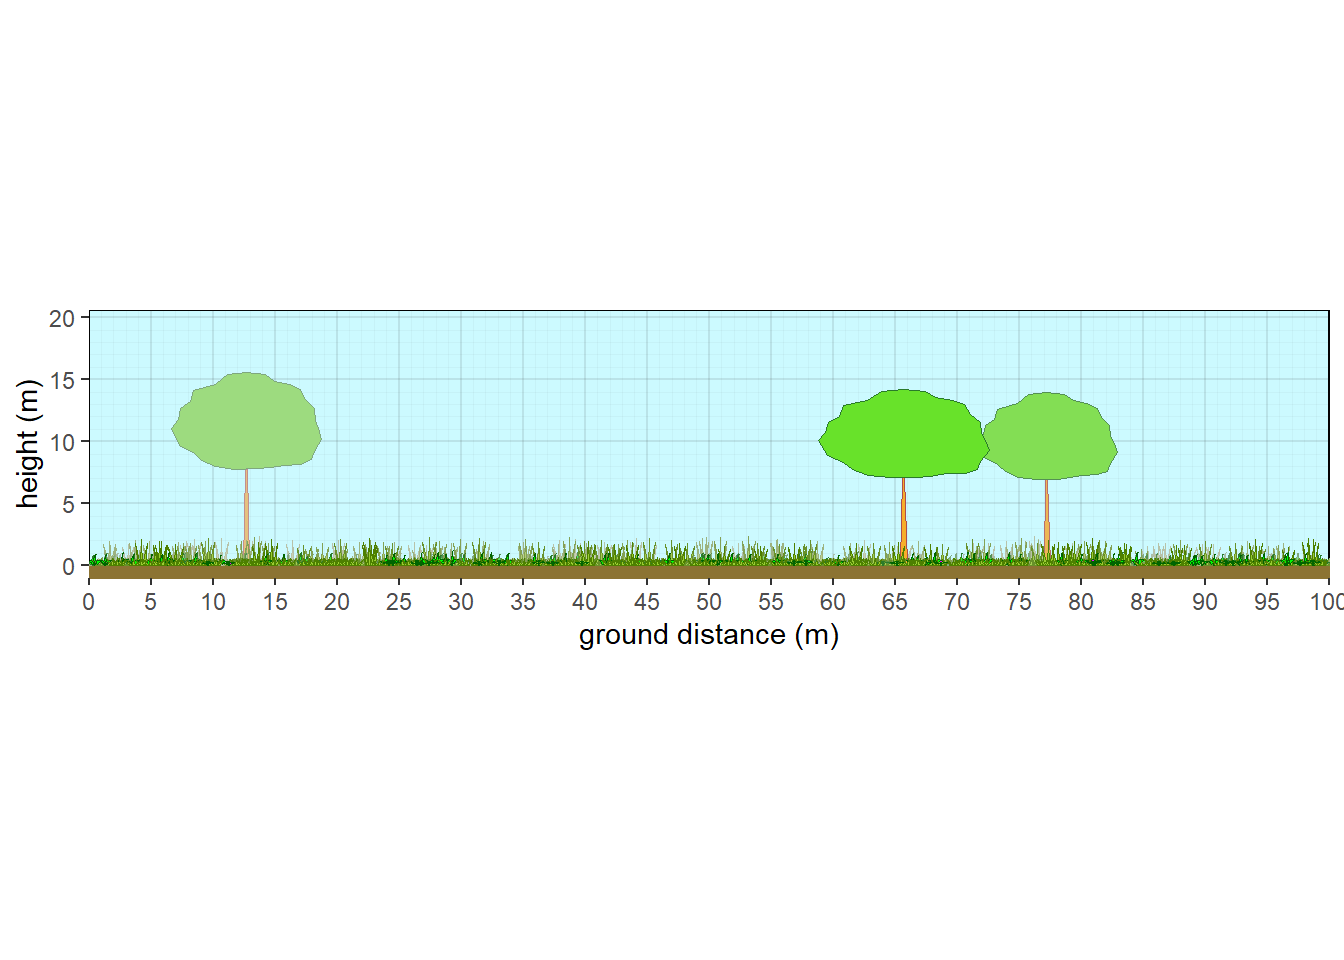
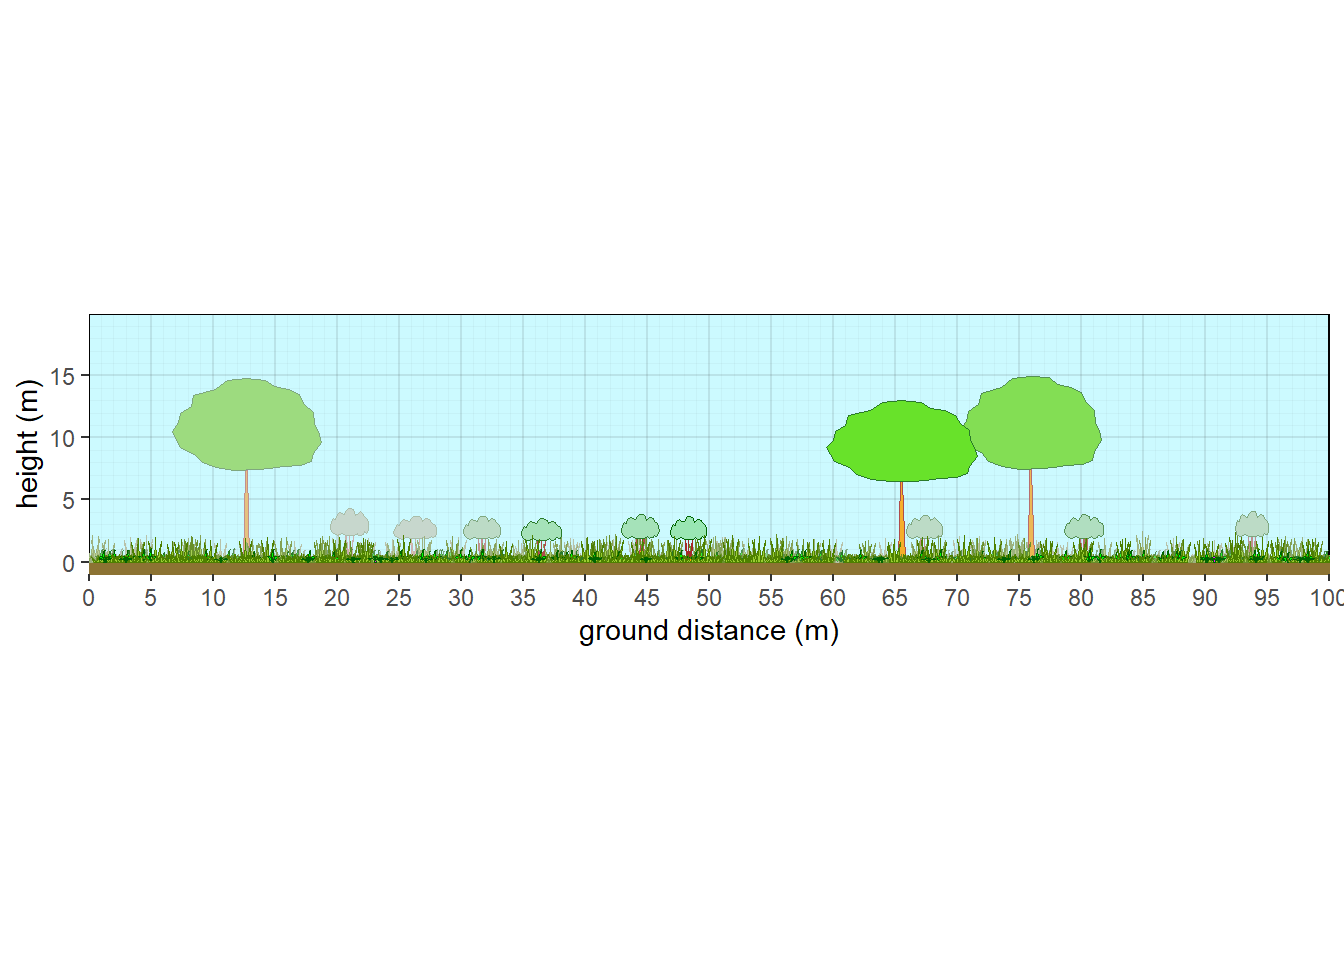
Added another option for habit overide.

diff --git a/docs/vegetation-plant-profile-diagrams.html b/docs/vegetation-plant-profile-diagrams.html
@@ -334,20 +334,23 @@ Figure 7.5: Structure of a Washington conifer forest.
 </div>
 <div id="generic-oak-savanna" class="section level3 hasAnchor" number="7.2.6">
 <h3><span class="header-section-number">7.2.6</span> Generic oak savanna<a href="vegetation-plant-profile-diagrams.html#generic-oak-savanna" class="anchor-section" aria-label="Anchor link to header"></a></h3>
-<p>Many parameters can be adjusted.</p>
+<p>Many parameters can be adjusted such as making the plot longer or changing sky color. Add unknown deciduous shrub with glaucus green leaves by specifying habit code “S.BD” and crown fill color finding a the rgb color code that looks right.</p>
 <div class="sourceCode" id="cb31"><pre class="sourceCode r"><code class="sourceCode r"><span id="cb31-1"><a href="vegetation-plant-profile-diagrams.html#cb31-1" aria-hidden="true" tabindex="-1"></a><span class="co">#Make up savanna data</span></span>
-<span id="cb31-2"><a href="vegetation-plant-profile-diagrams.html#cb31-2" aria-hidden="true" tabindex="-1"></a>obsite <span class="ot">&lt;-</span> <span class="fu">c</span>(<span class="st">&#39;plot1&#39;</span>)</span>
-<span id="cb31-3"><a href="vegetation-plant-profile-diagrams.html#cb31-3" aria-hidden="true" tabindex="-1"></a>obsspp <span class="ot">&lt;-</span> <span class="fu">c</span>(<span class="st">&#39;Quercus macrocarpa&#39;</span>,<span class="st">&#39;Pteridium&#39;</span>, <span class="st">&#39;Festuca&#39;</span>, <span class="st">&#39;Andropogon&#39;</span>, <span class="st">&#39;Liatris&#39;</span>)</span>
-<span id="cb31-4"><a href="vegetation-plant-profile-diagrams.html#cb31-4" aria-hidden="true" tabindex="-1"></a>abund <span class="ot">&lt;-</span> <span class="fu">c</span>(<span class="dv">20</span>,<span class="dv">10</span>,<span class="dv">60</span>,<span class="dv">10</span>,<span class="dv">5</span>)</span>
-<span id="cb31-5"><a href="vegetation-plant-profile-diagrams.html#cb31-5" aria-hidden="true" tabindex="-1"></a>hts <span class="ot">&lt;-</span> <span class="fu">c</span>(<span class="dv">15</span>,<span class="dv">1</span>,<span class="fl">0.6</span>,<span class="dv">2</span>,<span class="fl">0.4</span>)</span>
-<span id="cb31-6"><a href="vegetation-plant-profile-diagrams.html#cb31-6" aria-hidden="true" tabindex="-1"></a>dbh <span class="ot">&lt;-</span> <span class="fu">c</span>(<span class="dv">60</span>,<span class="cn">NA</span>,<span class="cn">NA</span>,<span class="cn">NA</span>,<span class="cn">NA</span>)</span>
-<span id="cb31-7"><a href="vegetation-plant-profile-diagrams.html#cb31-7" aria-hidden="true" tabindex="-1"></a>mydata <span class="ot">&lt;-</span> <span class="fu">data.frame</span>(<span class="at">obsite=</span>obsite, <span class="at">obsspp=</span>obsspp, <span class="at">abund=</span>abund, <span class="at">hts=</span>hts, <span class="at">dbh=</span>dbh)</span>
-<span id="cb31-8"><a href="vegetation-plant-profile-diagrams.html#cb31-8" aria-hidden="true" tabindex="-1"></a></span>
-<span id="cb31-9"><a href="vegetation-plant-profile-diagrams.html#cb31-9" aria-hidden="true" tabindex="-1"></a><span class="co">#Identify columns containing data corresponding to standard column names.</span></span>
-<span id="cb31-10"><a href="vegetation-plant-profile-diagrams.html#cb31-10" aria-hidden="true" tabindex="-1"></a>mydata <span class="ot">&lt;-</span> mydata <span class="sc">|&gt;</span> <span class="fu">mutate</span>(<span class="at">taxon=</span>obsspp, <span class="at">cover=</span>abund, <span class="at">plot=</span>obsite, <span class="at">crown.max =</span> hts, <span class="at">dbh.max =</span> dbh)</span>
-<span id="cb31-11"><a href="vegetation-plant-profile-diagrams.html#cb31-11" aria-hidden="true" tabindex="-1"></a>veg <span class="ot">&lt;-</span> mydata <span class="sc">|&gt;</span> <span class="fu">pre.fill.veg</span>()</span>
-<span id="cb31-12"><a href="vegetation-plant-profile-diagrams.html#cb31-12" aria-hidden="true" tabindex="-1"></a>plants <span class="ot">&lt;-</span> <span class="fu">grow_plants</span>(veg, <span class="at">plength=</span><span class="dv">100</span>) <span class="co">#Grow more plants on a longer 100 m plot (default was 50 m).</span></span>
-<span id="cb31-13"><a href="vegetation-plant-profile-diagrams.html#cb31-13" aria-hidden="true" tabindex="-1"></a><span class="fu">veg_profile_plot</span>(plants, <span class="at">unit=</span><span class="st">&#39;m&#39;</span>,  <span class="at">skycolor =</span> <span class="fu">rgb</span>(<span class="fl">0.8</span>,<span class="fl">0.98</span>,<span class="dv">1</span>), <span class="at">fadecolor =</span> <span class="st">&#39;lightgray&#39;</span>, <span class="at">gridalpha =</span> <span class="fl">0.1</span>, <span class="at">groundcolor =</span> <span class="fu">rgb</span>(<span class="fl">0.55</span>,<span class="fl">0.45</span>,<span class="fl">0.2</span>), <span class="at">xlim=</span><span class="fu">c</span>(<span class="dv">0</span>,<span class="dv">100</span>))</span></code></pre></div>
+<span id="cb31-2"><a href="vegetation-plant-profile-diagrams.html#cb31-2" aria-hidden="true" tabindex="-1"></a></span>
+<span id="cb31-3"><a href="vegetation-plant-profile-diagrams.html#cb31-3" aria-hidden="true" tabindex="-1"></a>thiscolor <span class="ot">=</span> <span class="fu">rgb</span>(<span class="fl">0.6</span>,<span class="fl">0.9</span>,<span class="fl">0.7</span>)</span>
+<span id="cb31-4"><a href="vegetation-plant-profile-diagrams.html#cb31-4" aria-hidden="true" tabindex="-1"></a></span>
+<span id="cb31-5"><a href="vegetation-plant-profile-diagrams.html#cb31-5" aria-hidden="true" tabindex="-1"></a>plot <span class="ot">&lt;-</span> <span class="fu">c</span>(<span class="st">&#39;plot1&#39;</span>)</span>
+<span id="cb31-6"><a href="vegetation-plant-profile-diagrams.html#cb31-6" aria-hidden="true" tabindex="-1"></a>taxon <span class="ot">&lt;-</span> <span class="fu">c</span>(<span class="st">&#39;Quercus macrocarpa&#39;</span>,<span class="st">&#39;UNK&#39;</span>,<span class="st">&#39;Pteridium&#39;</span>, <span class="st">&#39;Festuca&#39;</span>, <span class="st">&#39;Andropogon&#39;</span>, <span class="st">&#39;Liatris&#39;</span>)</span>
+<span id="cb31-7"><a href="vegetation-plant-profile-diagrams.html#cb31-7" aria-hidden="true" tabindex="-1"></a>cover <span class="ot">&lt;-</span> <span class="fu">c</span>(<span class="dv">20</span>,<span class="dv">5</span>,<span class="dv">10</span>,<span class="dv">60</span>,<span class="dv">10</span>,<span class="dv">5</span>)</span>
+<span id="cb31-8"><a href="vegetation-plant-profile-diagrams.html#cb31-8" aria-hidden="true" tabindex="-1"></a>crown.max <span class="ot">&lt;-</span> <span class="fu">c</span>(<span class="dv">15</span>,<span class="dv">4</span>,<span class="dv">1</span>,<span class="fl">0.6</span>,<span class="dv">2</span>,<span class="fl">0.4</span>)</span>
+<span id="cb31-9"><a href="vegetation-plant-profile-diagrams.html#cb31-9" aria-hidden="true" tabindex="-1"></a>crfill <span class="ot">&lt;-</span> <span class="fu">c</span>(<span class="cn">NA</span>,thiscolor,<span class="cn">NA</span>,<span class="cn">NA</span>,<span class="cn">NA</span>,<span class="cn">NA</span>)</span>
+<span id="cb31-10"><a href="vegetation-plant-profile-diagrams.html#cb31-10" aria-hidden="true" tabindex="-1"></a>dbh <span class="ot">&lt;-</span> <span class="fu">c</span>(<span class="dv">60</span>,<span class="cn">NA</span>,<span class="cn">NA</span>,<span class="cn">NA</span>,<span class="cn">NA</span>,<span class="cn">NA</span>)</span>
+<span id="cb31-11"><a href="vegetation-plant-profile-diagrams.html#cb31-11" aria-hidden="true" tabindex="-1"></a>habit <span class="ot">&lt;-</span> <span class="fu">c</span>(<span class="cn">NA</span>,<span class="st">&#39;S.BD&#39;</span>,<span class="cn">NA</span>,<span class="cn">NA</span>,<span class="cn">NA</span>,<span class="cn">NA</span>)</span>
+<span id="cb31-12"><a href="vegetation-plant-profile-diagrams.html#cb31-12" aria-hidden="true" tabindex="-1"></a>mydata <span class="ot">&lt;-</span> <span class="fu">data.frame</span>(<span class="at">plot=</span>plot,<span class="at">taxon=</span>taxon, <span class="at">cover=</span>cover, <span class="at">habit=</span>habit, <span class="at">crown.max =</span> crown.max, <span class="at">dbh.max =</span> dbh, <span class="at">crfill=</span>crfill)</span>
+<span id="cb31-13"><a href="vegetation-plant-profile-diagrams.html#cb31-13" aria-hidden="true" tabindex="-1"></a></span>
+<span id="cb31-14"><a href="vegetation-plant-profile-diagrams.html#cb31-14" aria-hidden="true" tabindex="-1"></a>veg <span class="ot">&lt;-</span> mydata <span class="sc">|&gt;</span> <span class="fu">pre.fill.veg</span>()</span>
+<span id="cb31-15"><a href="vegetation-plant-profile-diagrams.html#cb31-15" aria-hidden="true" tabindex="-1"></a>plants <span class="ot">&lt;-</span> <span class="fu">grow_plants</span>(veg, <span class="at">plength=</span><span class="dv">100</span>) <span class="co">#Grow more plants on a longer 100 m plot (default was 50 m).</span></span>
+<span id="cb31-16"><a href="vegetation-plant-profile-diagrams.html#cb31-16" aria-hidden="true" tabindex="-1"></a><span class="fu">veg_profile_plot</span>(plants, <span class="at">unit=</span><span class="st">&#39;m&#39;</span>,  <span class="at">skycolor =</span> <span class="fu">rgb</span>(<span class="fl">0.8</span>,<span class="fl">0.98</span>,<span class="dv">1</span>), <span class="at">fadecolor =</span> <span class="st">&#39;lightgray&#39;</span>, <span class="at">gridalpha =</span> <span class="fl">0.1</span>, <span class="at">groundcolor =</span> <span class="fu">rgb</span>(<span class="fl">0.55</span>,<span class="fl">0.45</span>,<span class="fl">0.2</span>), <span class="at">xlim=</span><span class="fu">c</span>(<span class="dv">0</span>,<span class="dv">100</span>))</span></code></pre></div>
 <div class="figure"><span style="display:block;" id="fig:unnamed-chunk-24"></span>
 <img src="vegbook1_files/figure-html/unnamed-chunk-24-1.png" alt="Structure of a generic oak savanna" width="672" />
 <p class="caption">
